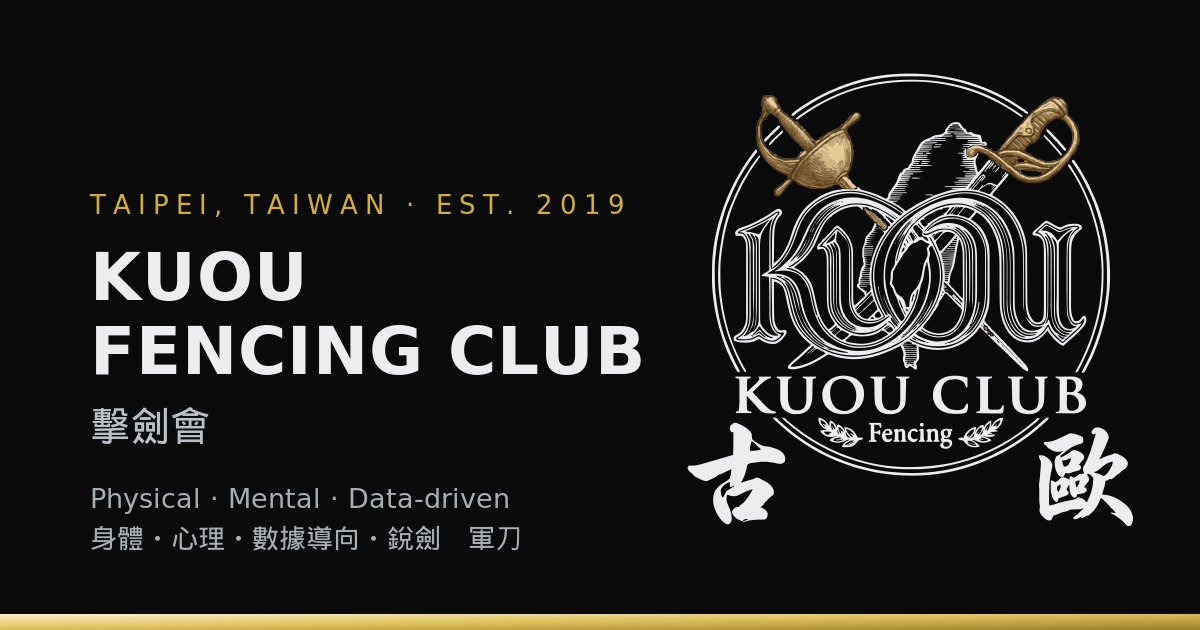
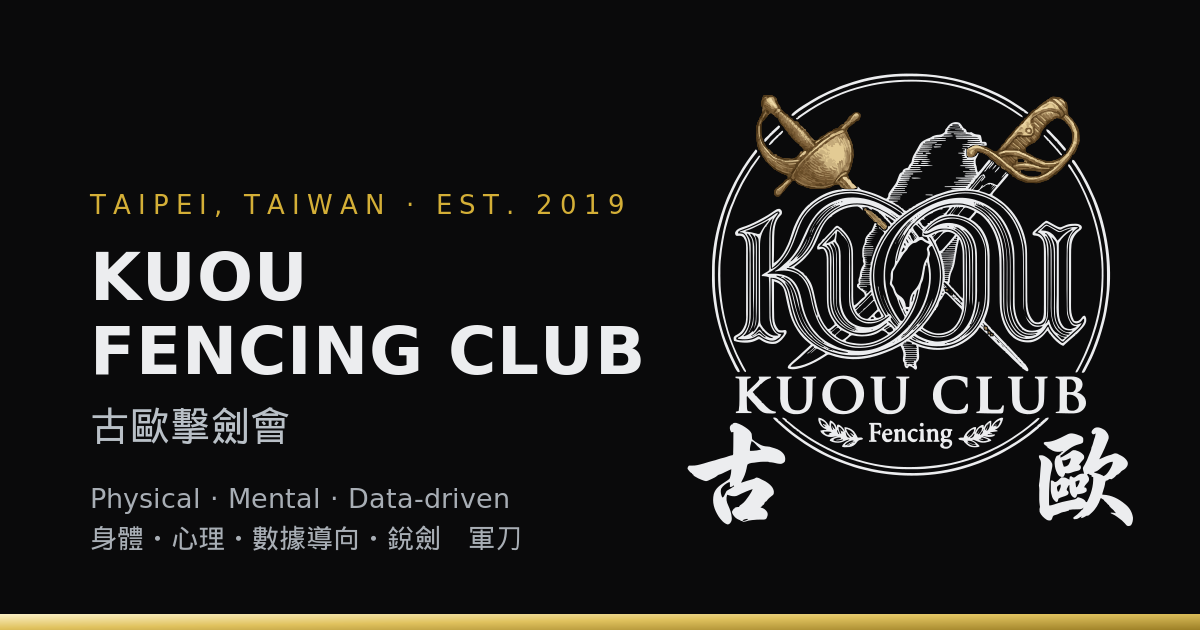
Use 古歐擊劍會 as the club's Chinese name

Changed region(s): [[0.0617, 0.6333, 0.2467, 0.7238]]

diff --git a/piste.config.ts b/piste.config.ts
@@ -24,14 +24,11 @@ export const clubConfig = {
     appName: 'Piste',
     tagline: 'Physical training. Mental training. Data-driven.',
     clubName: 'Kuou Fencing Club',
-    // Short brand name for tight UI (push titles, badges, nav lockup).
+    // Short brand name for tight UI (push titles, badges).
     shortName: 'Kuou',
-    // The club's name in its own script, rendered under the Latin one in the
-    // header lockup. "擊劍會" is just "fencing club" — the club's own name in
-    // characters has not been settled, and this reads correctly beside "Kuou"
-    // without asserting characters nobody has chosen. The marketing site's
-    // lockup says the same thing. Blank omits the line entirely.
-    nativeName: '擊劍會',
+    // The club's name in its own script, shown under the Latin one on the
+    // login and contact pages. Blank omits the line entirely.
+    nativeName: '古歐擊劍會',
     description: 'Attendance, bouts and competition results for Kuou Fencing Club',
     logoAlt: 'Kuou Fencing Club',
   },

diff --git a/src/config/club.ts b/src/config/club.ts
@@ -27,7 +27,7 @@ export interface ClubIdentity {
   tagline: string
   /** This club's full name, e.g. "Kuou Fencing Club". */
   clubName: string
-  /** Short brand name for tight UI (push titles, badges, the nav lockup). */
+  /** Short brand name for tight UI (push titles, badges). */
   shortName: string
   /** The club's name in its own script, shown beside the Latin one. Blank to
    *  omit — a club with no second script leaves it empty rather than repeating
